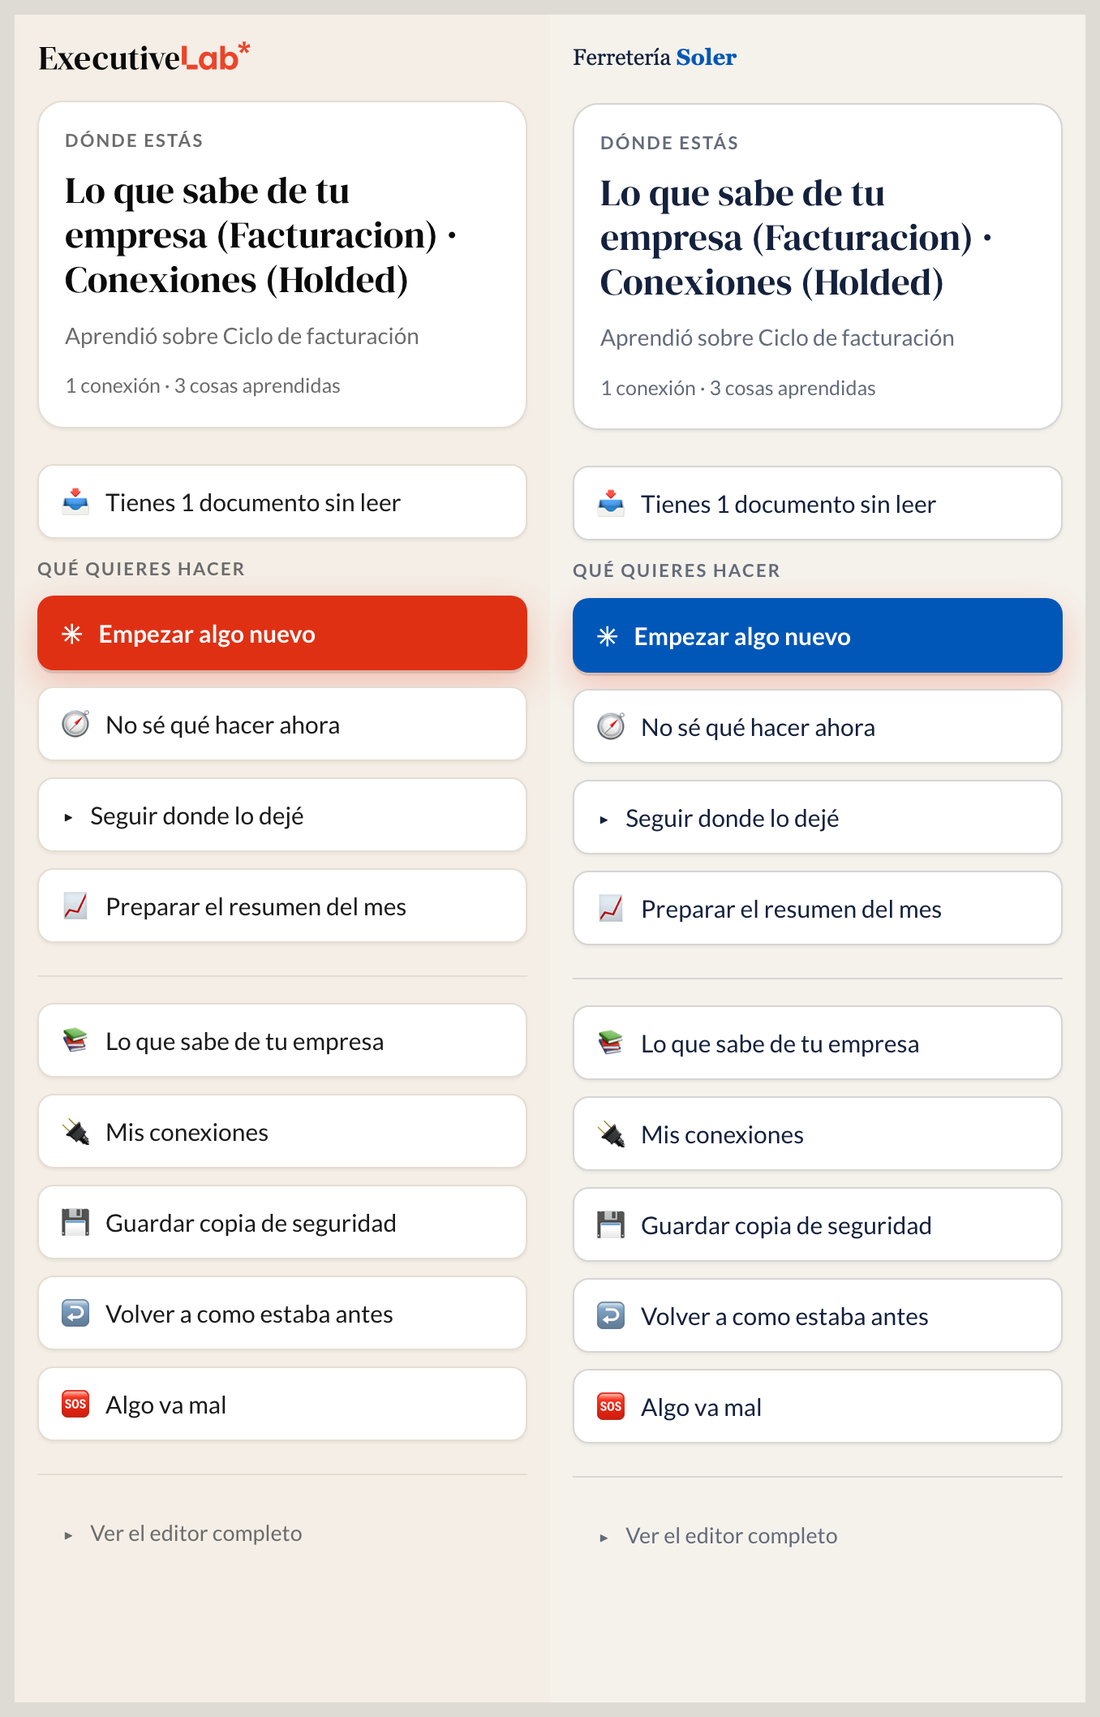
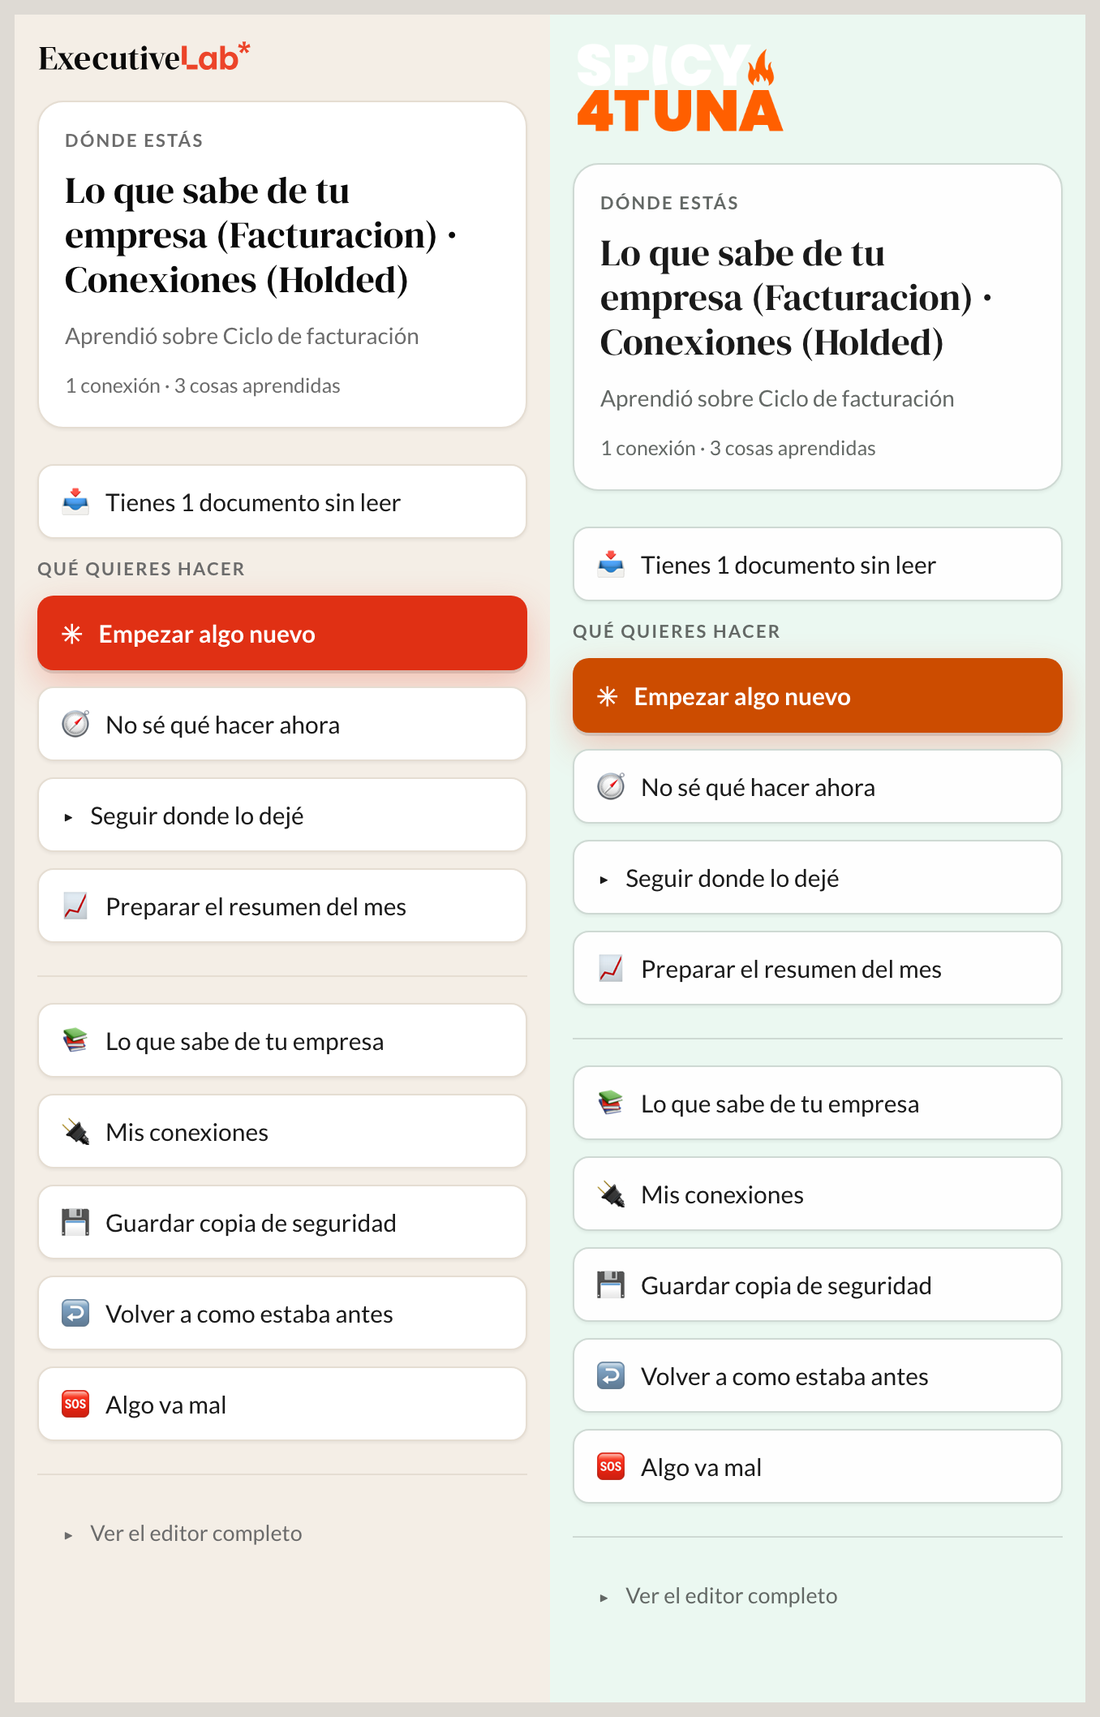
La marca se ofrece desde el panel, y sin logotipo legible va el nombre
Tres puertas a ponerle la cara a la empresa: el wizard al montar la
carpeta, un botón en la barra cuando todavía no hay marca, o contarlo en
la conversación.

Y una salida para el caso más común: un logotipo blanco sobre
transparente desaparece sobre un fondo claro. Si no se puede recolorear,
el récord deja fuera la línea logo: y el panel escribe el nombre de la
empresa con su tipografía y sus colores. Un rótulo escrito es mejor que
medio logotipo invisible.

Salió al probar el bucle entero contra una web de verdad
(spicy4tuna.com): su naranja da 3,05:1 con blanco y el panel lo oscureció
solo a 4,56:1, pero su logotipo blanco se quedaba a medias en pantalla.

Changed region(s): [[0.4945, 0.0309, 0.9891, 0.8952], [0.5873, 0.926, 0.7418, 0.9569]]

diff --git a/extension/src/extension.js b/extension/src/extension.js
@@ -69,9 +69,17 @@ class Panel {
     ].join('; ');
 
     // Si el alumno ha contado cuál es la web de su empresa, manda su marca.
-    const logo = suya && suya.logo
-      ? { src: webview.asWebviewUri(vscode.Uri.file(suya.logo)), alt: suya.nombre || 'Tu empresa' }
-      : { src: uri('logo.svg'), alt: 'Executive Lab' };
+    // Sin logotipo utilizable, su nombre escrito: siempre se lee, y en muchas
+    // pymes es lo único que hay.
+    const escapar = (v) => String(v).replace(/[&<>"]/g, (c) => ({ '&': '&amp;', '<': '&lt;', '>': '&gt;', '"': '&quot;' }[c]));
+    let cabecera;
+    if (suya && suya.logo) {
+      cabecera = `<img class="marca" src="${webview.asWebviewUri(vscode.Uri.file(suya.logo))}" alt="${escapar(suya.nombre || 'Tu empresa')}">`;
+    } else if (suya && suya.nombre) {
+      cabecera = `<p class="marca marca--nombre">${escapar(suya.nombre)}</p>`;
+    } else {
+      cabecera = `<img class="marca" src="${uri('logo.svg')}" alt="Executive Lab">`;
+    }
 
     return `<!DOCTYPE html>
 <html lang="es">
@@ -82,7 +90,7 @@ class Panel {
 ${marca.estilo(suya)}
 </head>
 <body>
-<img class="marca" src="${logo.src}" alt="${logo.alt}">
+${cabecera}
 <div id="app" aria-live="polite"></div>
 <script nonce="${nonce}" src="${uri('panel.js')}"></script>
 </body>
@@ -95,11 +103,15 @@ ${marca.estilo(suya)}
 
   async refrescar(fresco = false) {
     this.enviar({ tipo: 'cargando' });
+    const suya = marca.leer();
     this.enviar({
       tipo: 'estado',
       estado: await brujula.estado({ fresco }),
       acciones: acciones.acciones(),
       modo: disfraz.modoDeEstaVentana(),
+      // Si la empresa aún no tiene cara puesta, el panel la ofrece en vez de
+      // esperar a que el alumno caiga en contarlo.
+      marcaPuesta: Boolean(suya && suya.tokens),
     });
   }
 

diff --git a/extension/media/panel.js b/extension/media/panel.js
@@ -9,6 +9,7 @@ const app = document.getElementById('app');
 let estado = null;
 let accionesDescubiertas = [];
 let modo = 'sencillo';
+let marcaPuesta = true;
 let aviso = null;
 
 const pedir = (tipo, extra = {}) => vscode.postMessage({ tipo, ...extra });
@@ -102,6 +103,12 @@ function pantallaPrincipal() {
     ${boton({ etiqueta: 'Algo va mal', icono: '🆘', accion: { tipo: 'algoVaMal' } })}
 
     <hr class="separador">
+    ${marcaPuesta ? '' : boton({
+      etiqueta: 'Ponerle la cara de tu empresa',
+      icono: '🎨',
+      discreto: true,
+      accion: { tipo: 'pedir', prompt: 'Quiero que esto tenga la cara de mi empresa. Pregúntame cuál es nuestra web, míralas y quédate con sus colores y su logotipo.' },
+    })}
     ${modo === 'avanzado'
       ? boton({ etiqueta: 'Volver al modo sencillo', icono: '◂', discreto: true, accion: { tipo: 'modoSencillo' } })
       : boton({ etiqueta: 'Ver el editor completo', icono: '▸', discreto: true, accion: { tipo: 'verEditorCompleto' } })}
@@ -288,6 +295,7 @@ window.addEventListener('message', ({ data }) => {
       estado = data.estado;
       accionesDescubiertas = data.acciones || [];
       modo = data.modo || 'sencillo';
+      marcaPuesta = data.marcaPuesta !== false;
       return pintar(pantallaPrincipal());
     case 'conexiones': return pintar(pantallaConexiones(data));
     case 'conexion': return pintar(pantallaConexion(data));

diff --git a/extension/src/marca.js b/extension/src/marca.js
@@ -29,6 +29,12 @@ function carpeta() {
 
 // El logotipo vive junto al récord. Se comprueba que no se salga de ahí: el
 // nombre viene de un fichero que escribe el asistente.
+//
+// Y si no hay logotipo utilizable no pasa nada: el panel escribe el nombre de
+// la empresa con la tipografía y los colores de la marca. Es la salida buena
+// para el caso más común — un logotipo blanco sobre transparente, que sobre
+// fondo claro desaparece— y para las muchas pymes que no tienen logotipo
+// en un fichero a mano.
 function logoDe(campos, donde) {
   if (typeof campos.logo !== 'string' || !LOGOS.test(campos.logo)) return null;
   const completa = path.resolve(donde, campos.logo);
@@ -65,8 +71,13 @@ function leer() {
   // botón usa el color de texto, que sí se lee.
   const acentoFuerte = color.hastaQueSeLea(acento, '#ffffff') || texto;
 
+  // El nombre a secas, para poder escribirlo cuando no haya logotipo usable.
+  // El título del artículo suele ser "Marca de X", que como rótulo no sirve.
+  const nombre = (typeof campos.empresa === 'string' && campos.empresa.trim())
+    || (typeof campos.title === 'string' ? campos.title.replace(/^marca de\s+/i, '').trim() : null);
+
   return {
-    nombre: campos.title || null,
+    nombre: nombre || null,
     web: typeof campos.resource === 'string' ? campos.resource : null,
     logo: logoDe(campos, donde),
     carpeta: donde,

diff --git a/extension/prueba/humo.js b/extension/prueba/humo.js
@@ -252,7 +252,7 @@ async function main() {
   await comprobar('con récord, el panel se pinta con los colores de la empresa', () => {
     montarMarca(empresa);
     const suya = marca.leer();
-    assert.equal(suya.nombre, 'Marca de Ferretería Soler');
+    assert.equal(suya.nombre, 'Ferretería Soler', 'sin el "Marca de" del título del artículo');
     assert.equal(suya.web, 'https://ferreteriasoler.es');
     assert.ok(suya.logo && suya.logo.endsWith('logo.svg'), 'coge su logotipo');
     assert.equal(suya.tokens['--crema'], '#f7f5f2');
@@ -278,6 +278,14 @@ async function main() {
     assert.ok(suya.descartada, 'mejor la nuestra que una interfaz ilegible');
     assert.equal(marca.estilo(suya), '');
     return suya.descartada;
+  });
+
+  await comprobar('sin logotipo utilizable, el rótulo es el nombre de la empresa', () => {
+    montarMarca(empresa, { logo: false });
+    const suya = marca.leer();
+    assert.equal(suya.logo, null);
+    montarMarca(empresa);
+    return suya.nombre;
   });
 
   await comprobar('un logotipo que apunta fuera de su carpeta se ignora', () => {

diff --git a/extension/prueba/empresa-falsa.js b/extension/prueba/empresa-falsa.js
@@ -110,6 +110,11 @@ Una fuente leída.
 // Aparte de `montar` porque el caso por defecto —sin marca todavía, con la de
 // Executive Lab— también hay que poder probarlo.
 function montarMarca(raiz, { acento = '#0057b8', texto = '#1a1a1a', fondo = '#f7f5f2', logo = true } = {}) {
+  // Sin logotipo utilizable, el récord no lo declara: es lo que debe hacer el
+  // asistente cuando el de la empresa no se lee sobre su propio fondo.
+  const viejo = path.join(raiz, '02-DOCS/wiki/brand/logo.svg');
+  if (!logo && fs.existsSync(viejo)) fs.unlinkSync(viejo);
+
   escribir(raiz, '02-DOCS/wiki/brand/marca.md', `---
 type: concept
 title: Marca de Ferretería Soler
@@ -119,7 +124,7 @@ tags: [brand, marca]
 fondo: "${fondo}"
 texto: "${texto}"
 acento: "${acento}"
-logo: logo.svg
+${logo ? 'logo: logo.svg' : ''}
 ---
 
 # Marca de Ferretería Soler

diff --git a/extension/media/panel.css b/extension/media/panel.css
@@ -95,6 +95,17 @@ body {
   color: var(--texto-fuerte);
 }
 
+/* Cuando la empresa no tiene un logotipo que se lea sobre su fondo, su nombre
+   escrito hace de rótulo. Se lee siempre, que es lo que importa. */
+.marca--nombre {
+  width: auto;
+  margin: 0 0 18px;
+  font-family: var(--serif);
+  font-size: 24px;
+  line-height: 1.1;
+  color: var(--tinta);
+}
+
 h2 {
   margin: 0 0 8px;
   font-family: var(--sans);

diff --git a/extension/media/railes/executive-lab/SKILL.md b/extension/media/railes/executive-lab/SKILL.md
@@ -112,8 +112,9 @@ pide datos o cambia algo, te lo pide a ti, y entonces preguntas lo que falte y p
 
 ### 3. Cuando sepas cuál es su web, quédate con su marca
 
-En cuanto el alumno diga la web de su empresa —el wizard se la pregunta al montar la carpeta, y si no
-saldrá en la conversación— **míralas y escribe el récord de marca**. Desde ese momento el panel deja
+Hay tres puertas a esto y todas acaban aquí: el **wizard** se la pregunta al montar la carpeta, el
+alumno puede pulsar **Ponerle la cara de tu empresa** en la barra, o simplemente lo cuenta en la
+conversación. En cuanto sepas la web, **míralas y escribe el récord de marca**. Desde ese momento el panel deja
 de llevar los colores de Executive Lab y lleva los suyos, y eso hace más por que se sienta en su casa
 que cualquier cosa que le digas.
 
@@ -140,9 +141,14 @@ De dónde sale cada color y qué se ha dejado fuera.
 ```
 
 Cuatro colores, y solo cuatro: **fondo** (el de la página), **superficie** (tarjetas; si no lo pones,
-se calcula), **texto** y **acento** (el color de sus botones y enlaces). En `#rrggbb`, siempre. Coge
-el logotipo también: descárgalo a esa misma carpeta como `logo.svg` (o `.png`), y **en versión para
-fondo claro** — si el suyo es blanco sobre oscuro, recolorea el blanco al color de texto.
+se calcula), **texto** y **acento** (el color de sus botones y enlaces). En `#rrggbb`, siempre. **El logotipo, solo si se lee sobre el fondo que has elegido.** Descárgalo a esa misma carpeta como
+`logo.svg` o `logo.png` y míralo: si es blanco sobre transparente —el caso más común— sobre un fondo
+claro desaparece. Si es SVG, recolorea el blanco al color de texto y listo. Si es un PNG blanco y no
+puedes recolorearlo, **deja fuera la línea `logo:`**: el panel escribirá el nombre de la empresa con
+su tipografía y sus colores, que se lee siempre. Un rótulo escrito es mejor que medio logotipo
+invisible.
+
+Y pon `empresa: Ferretería Soler` si el nombre para el rótulo no es el del título del artículo.
 
 **No toques la tipografía ni los tamaños.** Los colores de una web se pueden adoptar sin romper nada;
 una tipografía ajena, no, y esta gente no puede permitirse una interfaz que de pronto no se lee.

diff --git a/skills/executive-lab/SKILL.md b/skills/executive-lab/SKILL.md
@@ -112,8 +112,9 @@ pide datos o cambia algo, te lo pide a ti, y entonces preguntas lo que falte y p
 
 ### 3. Cuando sepas cuál es su web, quédate con su marca
 
-En cuanto el alumno diga la web de su empresa —el wizard se la pregunta al montar la carpeta, y si no
-saldrá en la conversación— **míralas y escribe el récord de marca**. Desde ese momento el panel deja
+Hay tres puertas a esto y todas acaban aquí: el **wizard** se la pregunta al montar la carpeta, el
+alumno puede pulsar **Ponerle la cara de tu empresa** en la barra, o simplemente lo cuenta en la
+conversación. En cuanto sepas la web, **míralas y escribe el récord de marca**. Desde ese momento el panel deja
 de llevar los colores de Executive Lab y lleva los suyos, y eso hace más por que se sienta en su casa
 que cualquier cosa que le digas.
 
@@ -140,9 +141,14 @@ De dónde sale cada color y qué se ha dejado fuera.
 ```
 
 Cuatro colores, y solo cuatro: **fondo** (el de la página), **superficie** (tarjetas; si no lo pones,
-se calcula), **texto** y **acento** (el color de sus botones y enlaces). En `#rrggbb`, siempre. Coge
-el logotipo también: descárgalo a esa misma carpeta como `logo.svg` (o `.png`), y **en versión para
-fondo claro** — si el suyo es blanco sobre oscuro, recolorea el blanco al color de texto.
+se calcula), **texto** y **acento** (el color de sus botones y enlaces). En `#rrggbb`, siempre. **El logotipo, solo si se lee sobre el fondo que has elegido.** Descárgalo a esa misma carpeta como
+`logo.svg` o `logo.png` y míralo: si es blanco sobre transparente —el caso más común— sobre un fondo
+claro desaparece. Si es SVG, recolorea el blanco al color de texto y listo. Si es un PNG blanco y no
+puedes recolorearlo, **deja fuera la línea `logo:`**: el panel escribirá el nombre de la empresa con
+su tipografía y sus colores, que se lee siempre. Un rótulo escrito es mejor que medio logotipo
+invisible.
+
+Y pon `empresa: Ferretería Soler` si el nombre para el rótulo no es el del título del artículo.
 
 **No toques la tipografía ni los tamaños.** Los colores de una web se pueden adoptar sin romper nada;
 una tipografía ajena, no, y esta gente no puede permitirse una interfaz que de pronto no se lee.

diff --git a/docs/diccionario.md b/docs/diccionario.md
@@ -43,6 +43,7 @@ jerga por goteo.
 | poner el disfraz en esta ventana | Volver al modo sencillo |
 | `02-DOCS/wiki/brand/marca.md` | La marca de tu empresa |
 | la web de la empresa del alumno | Tu web |
+| escribir el récord de marca | Ponerle la cara de tu empresa |
 
 ## Palabras prohibidas
 
